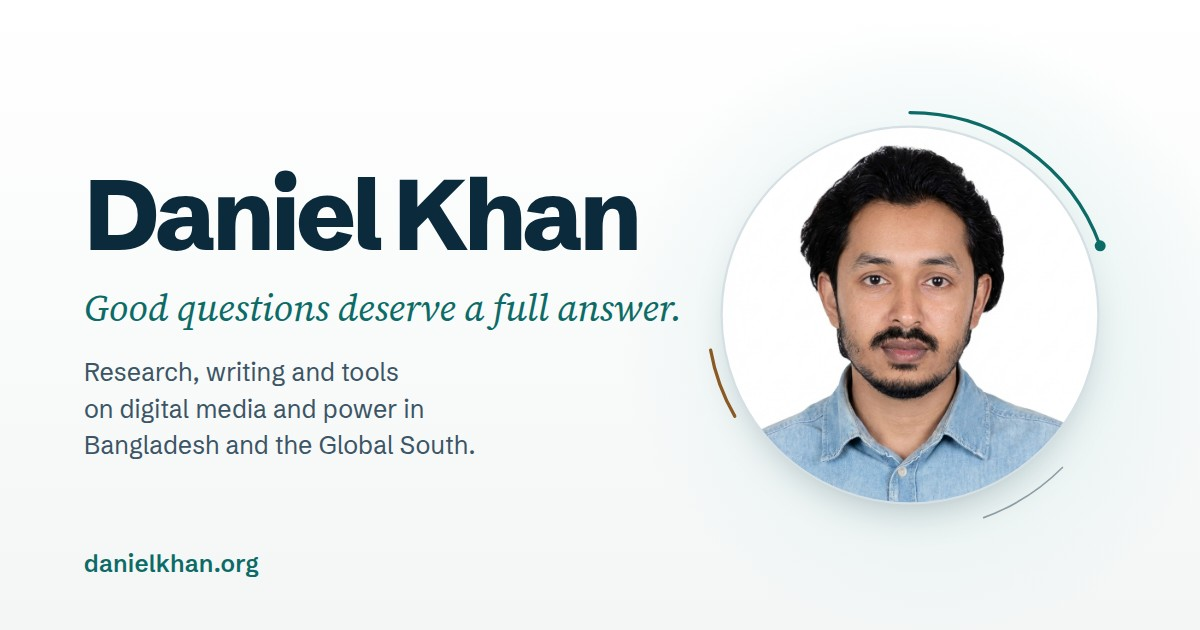
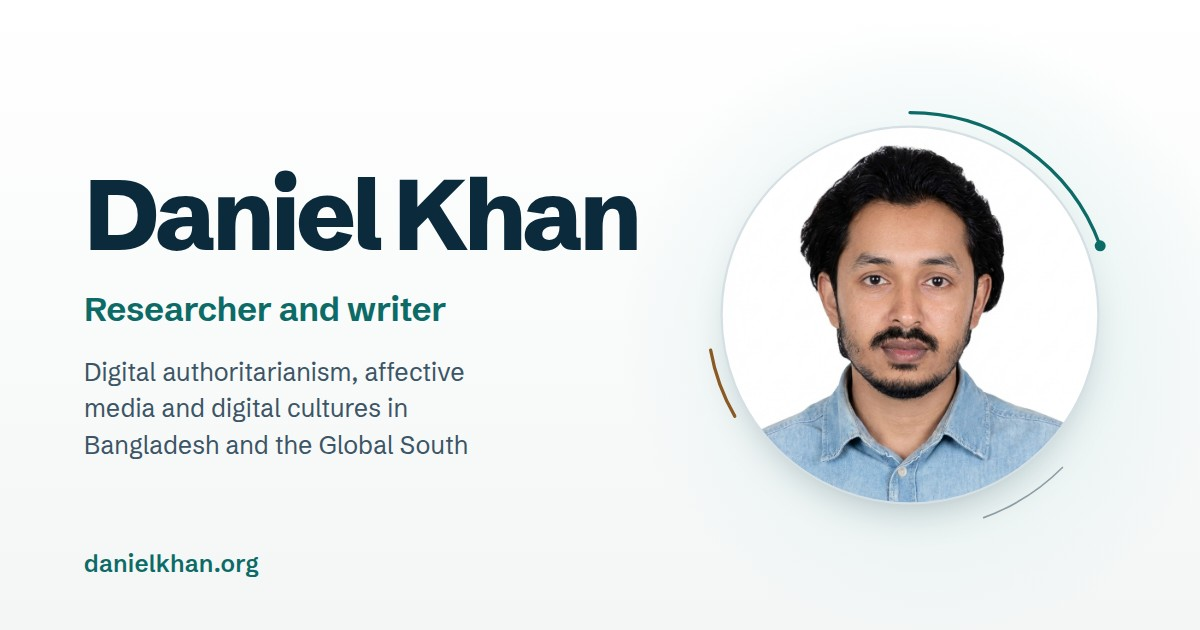
Email links never fail silently; clearer share preview
- Every mailto link opens a panel: the address with Copy (focused
  first), plus Gmail, Outlook and mail-app options with subject/body
  carried over; plain mailto remains the no-JavaScript fallback
- Phone menu shows as plain links if JavaScript doesn't run; search and
  the script timer explain themselves without JavaScript; search load
  errors use visitor-facing wording; GitHub forms note the account
- Share card and home title: "Researcher and writer" with research
  areas instead of the motto; description rewritten

Changed region(s): [[0.0617, 0.4524, 0.555, 0.5127], [0.0617, 0.573, 0.4008, 0.6635]]

diff --git a/src/site.config.ts b/src/site.config.ts
@@ -6,6 +6,8 @@ export const SITE = {
   name: 'Daniel Khan',
   url: 'https://danielkhan.org',
   role: 'PhD student in Humanities',
+  /** Short title used for the home page in search results and link previews. */
+  headline: 'Researcher and writer',
   /** Motto shown under your name on the home page. */
   motto: 'Good questions deserve a full answer.',
   /** One line under the logo in the footer — what the site is about. */
@@ -14,7 +16,7 @@ export const SITE = {
   focus:
     'I research digital authoritarianism, affective media and digital cultures in Bangladesh and the Global South. I also write sourced explainers and am developing experimental language tools for checking claims in the news.',
   description:
-    'Daniel Khan — PhD student in Humanities researching digital authoritarianism, affective media and digital cultures in Bangladesh and the Global South, and building experimental language tools for checking claims in the news.',
+    'PhD student in Humanities researching digital authoritarianism, affective media and digital cultures in Bangladesh and the Global South. Research, sourced explainers and open tools.',
 
   /** Public GitHub account and the public repo used for collaboration (Discussions + issue forms). */
   github: {
